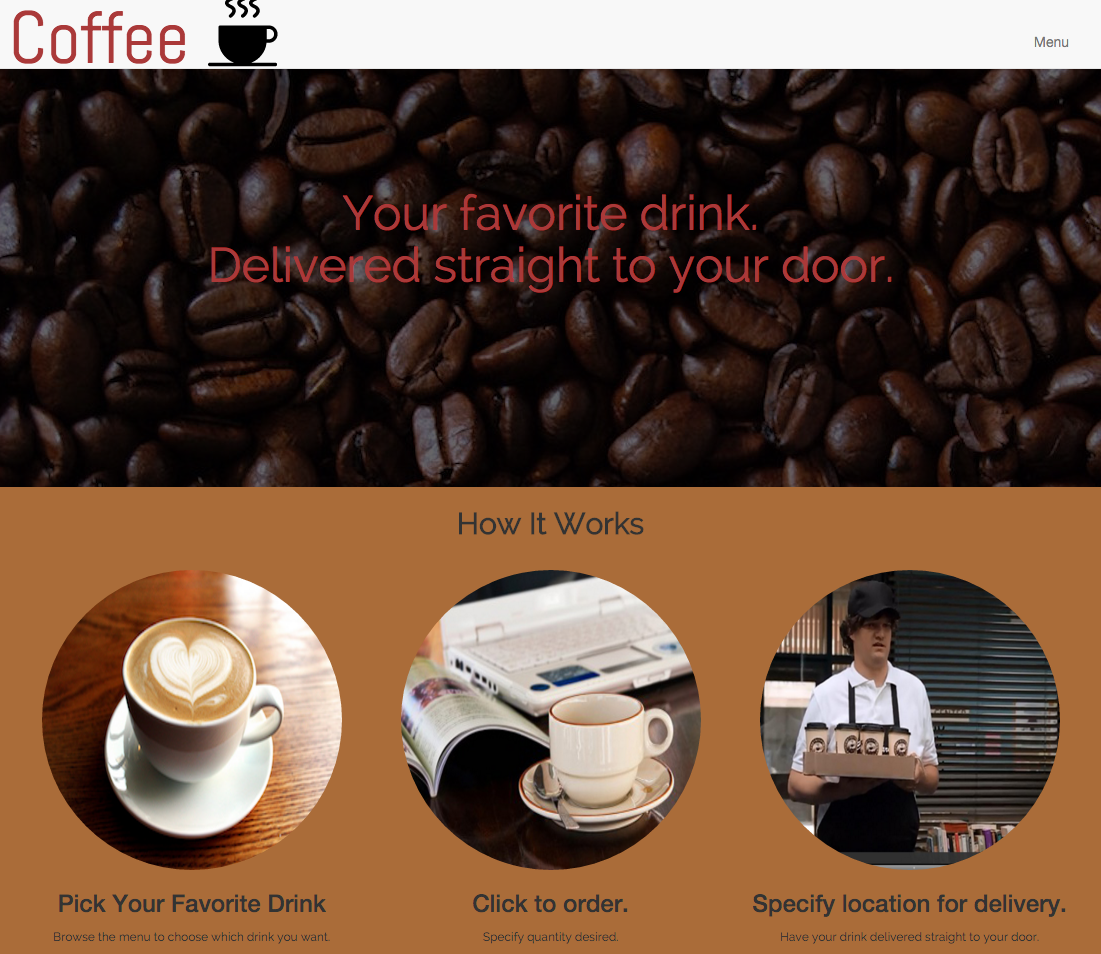
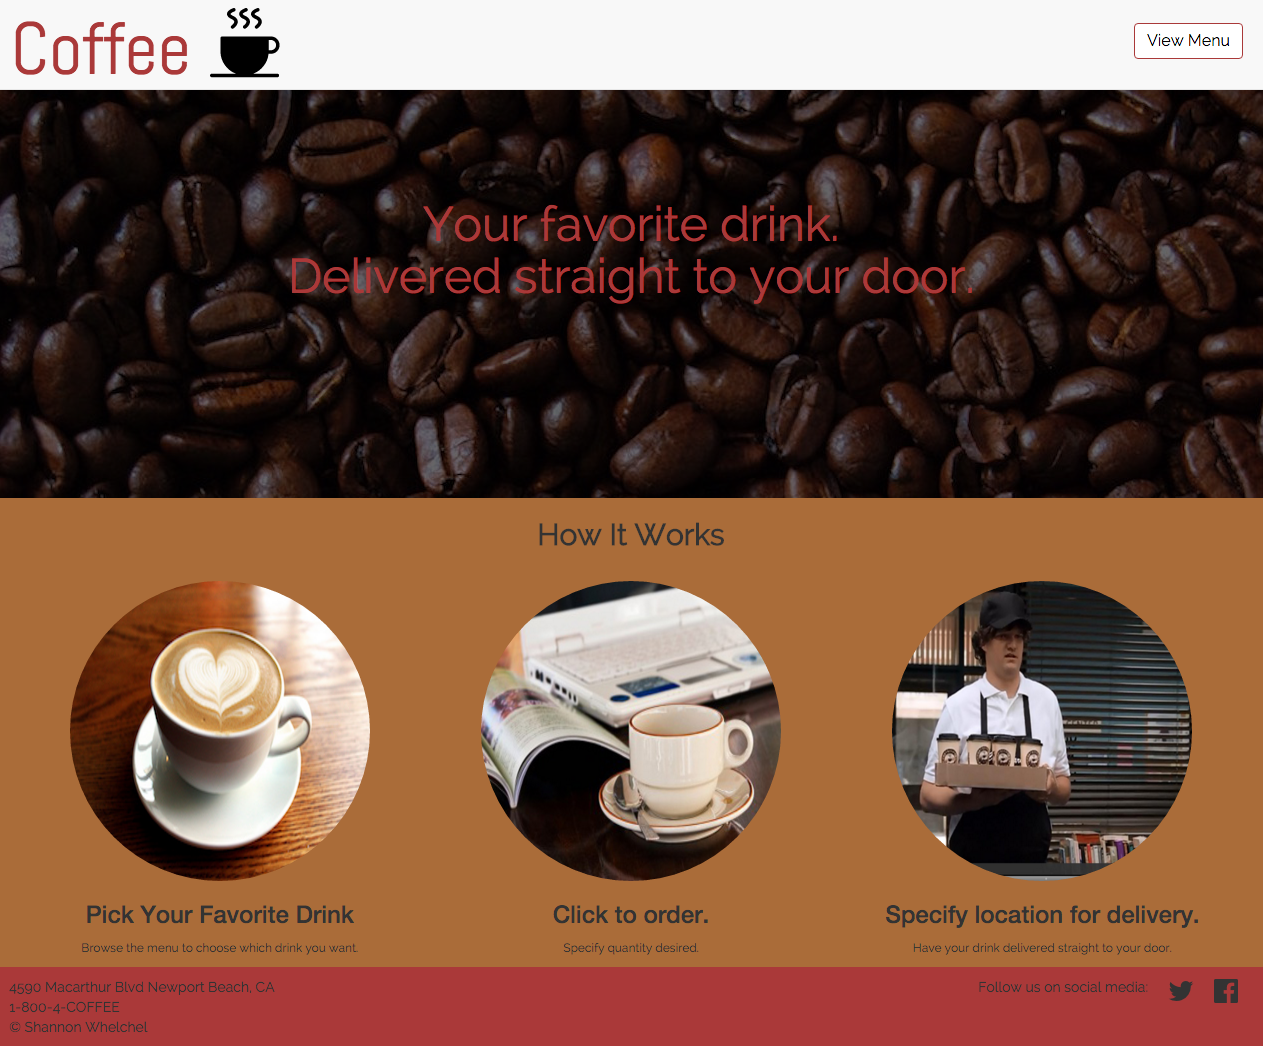
changes to styling

diff --git a/public/index.html b/public/index.html
@@ -12,7 +12,8 @@
     <nav class="navbar navbar-default navbar-fixed-top">
       <div class="container-fluid">
         <div class="navbar-header">
-          <button class="navbar-toggle collapsed" data-target="#collapse" data-toggle="collapse" type="button" aria-expanded="false"><span class = "glyphicon glyphicon-align-justify" aria-hidden="true"></span>
+          <button class="navbar-toggle collapsed" data-target="#collapse" data-toggle="collapse" type="button" 
+          aria-expanded="false"><span class = "glyphicon glyphicon-align-justify" aria-hidden="true"></span>
             <span class="sr-only">Toggle navigation</span>
             <span class="nav-bar"></span>
             <span class="nav-bar"></span>
@@ -24,7 +25,7 @@
         </div> 
         <div class="collapse navbar-collapse" id="collapse">
           <ul class="nav navbar-nav navbar-right">
-            <li id="menu-nav"><a href="#menu">Menu</a></li>
+            <button class="btn btn-default" id="menu-nav"><li>View Menu</li></button>
           </ul>
         </div> 
       </div> 
@@ -73,7 +74,9 @@
     <div class="container-fluid" id="footer-color">
       <div class="row">
         <div class="col-md-6" id="location">
-          <text> 4590 Macarthur Blvd Newport Beach, CA</text>
+          <text> 4590 Macarthur Blvd Newport Beach, CA</text><br>
+          <text> 1-800-4-COFFEE</text><br>
+          <text> &copy Shannon Whelchel</text>
         </div>
         <div class="col-md-6" id="footer">
           <ul>

diff --git a/public/css/default.css b/public/css/default.css
@@ -118,12 +118,62 @@ position: absolute;
 .form-control {
   display: inline-block;
 }
+#delivery-button {
+  background-color: #882D60;
+  border: #882D60;
+  margin-top: 20px;
+}
+#delivery-button:hover {
+  background-color: #661141;
+}
+.order-button {
+  background-color: #882D60;
+  border: #882D60;
+  color: white;
+}
+.order-button:hover {
+  background-color: #661141;
+  color: white;
+}
+#menu-nav {
+  font-size: 16px;
+  font-family: 'Raleway', sans-serif;
+  color: #000;
+  border: 1px solid #AA3939;
+  margin-top: 5px;
+}
+#menu-nav:hover {
+  background-color: #AA3939;
+}
+.menu-button:hover {
+  background-color: #AA3939;
+}
 @media (max-width: 551px) {
+  #menu-nav {
+    margin-left: 10px;
+  }
+  #user-name {
+    width: 60%;
+  }
+  #address {
+    width: 58.5%;
+  }
+  #city {
+    width: 204.5px;
+  }
+   #state {
+    margin-left: 31px;
+  }
+  #zip {
+    width: 85px;
+  }
+}
+/*@media (max-width: 551px) {
   #user-name, #address {
     width: 60%;
   }
    #state {
     margin-left: 31px;
   }
-}
+}*/
 

diff --git a/public/js/app.js b/public/js/app.js
@@ -210,7 +210,7 @@ function createModal(name, id, price, img) {
   var button = document.createElement('button');
   button.setAttribute('type', 'submit');
   button.setAttribute('id', id + '-order-button');
-  button.setAttribute('class', 'btn btn-default');
+  button.setAttribute('class', 'btn btn-default order-button');
   button.setAttribute('data-dismiss', 'modal');
   button.textContent = 'Place Order';
 
